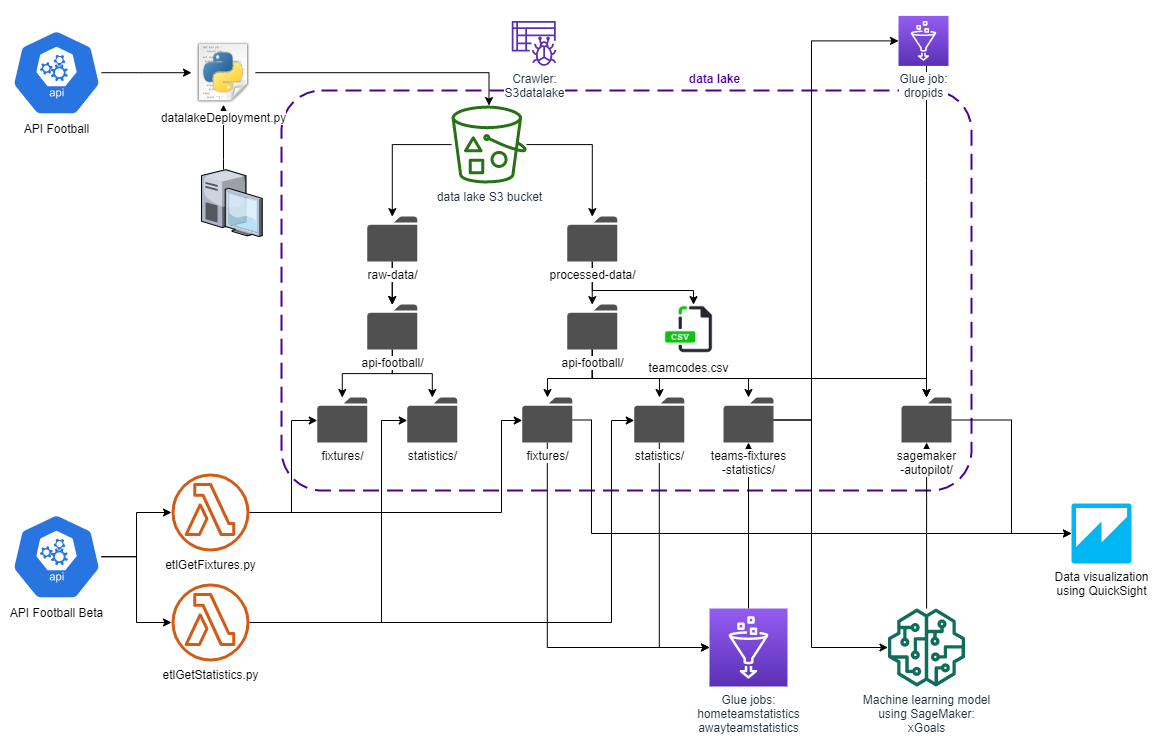
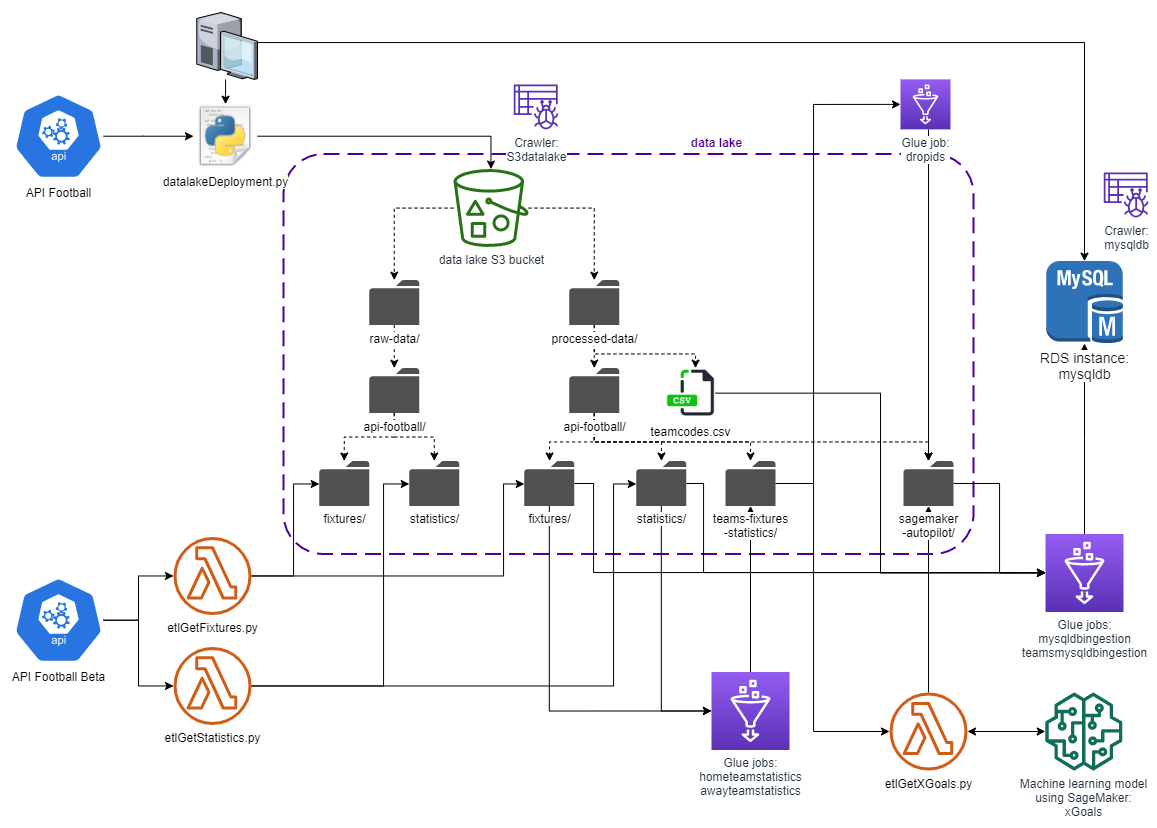
README

diff --git a/toDatabase.py b/toDatabase.py
@@ -1,0 +1,93 @@
+import sys
+from awsglue.transforms import *
+from awsglue.utils import getResolvedOptions
+from pyspark.context import SparkContext
+from awsglue.context import GlueContext
+from awsglue.job import Job
+from awsglue.dynamicframe import DynamicFrame
+
+## @params: [JOB_NAME]
+args = getResolvedOptions(sys.argv, ['JOB_NAME'])
+
+sc = SparkContext()
+glueContext = GlueContext(sc)
+spark = glueContext.spark_session
+job = Job(glueContext)
+job.init(args['JOB_NAME'], args)
+## @type: DataSource
+## @args: [database = "awsdataengineerprojectdatabase", table_name = "fixtures_51cfd6df2d3198a05b533fa18a848aa2", transformation_ctx = "DataSource0"]
+## @return: DataSource0
+## @inputs: []
+DataSource0 = glueContext.create_dynamic_frame.from_catalog(database = "awsdataengineerprojectdatabase", table_name = "fixtures_51cfd6df2d3198a05b533fa18a848aa2", transformation_ctx = "DataSource0")
+## @type: DataSource
+## @args: [database = "awsdataengineerprojectdatabase", table_name = "xgoals_predictions", transformation_ctx = "DataSource2"]
+## @return: DataSource2
+## @inputs: []
+DataSource2 = glueContext.create_dynamic_frame.from_catalog(database = "awsdataengineerprojectdatabase", table_name = "xgoals_predictions", transformation_ctx = "DataSource2")
+## @type: Join
+## @args: [keys2 = ["idfixture", "idawayteam"], keys1 = ["col0", "col1"], transformation_ctx = "Transform7"]
+## @return: Transform7
+## @inputs: [frame1 = DataSource2, frame2 = DataSource0]
+Transform7 = Join.apply(frame1 = DataSource2, frame2 = DataSource0, keys2 = ["idfixture", "idawayteam"], keys1 = ["col0", "col1"], transformation_ctx = "Transform7")
+## @type: ApplyMapping
+## @args: [mappings = [("col7", "double", "xgoalsawayteam", "double"), ("idfixture", "long", "idfixture", "long"), ("status", "string", "status", "string"), ("date", "string", "date", "string"), ("time", "string", "time", "string"), ("idhometeam", "long", "idhometeam", "long"), ("idawayteam", "long", "idawayteam", "long"), ("goalshometeam", "long", "goalshometeam", "long"), ("goalsawayteam", "long", "goalsawayteam", "long")], transformation_ctx = "Transform1"]
+## @return: Transform1
+## @inputs: [frame = Transform7]
+Transform1 = ApplyMapping.apply(frame = Transform7, mappings = [("col7", "double", "xgoalsawayteam", "double"), ("idfixture", "long", "idfixture", "long"), ("status", "string", "status", "string"), ("date", "string", "date", "string"), ("time", "string", "time", "string"), ("idhometeam", "long", "idhometeam", "long"), ("idawayteam", "long", "idawayteam", "long"), ("goalshometeam", "long", "goalshometeam", "long"), ("goalsawayteam", "long", "goalsawayteam", "long")], transformation_ctx = "Transform1")
+## @type: ApplyMapping
+## @args: [mappings = [("xgoalsawayteam", "double", "(right) xgoalsawayteam", "double"), ("idfixture", "long", "(right) idfixture", "long"), ("status", "string", "(right) status", "string"), ("date", "string", "(right) date", "string"), ("time", "string", "(right) time", "string"), ("idhometeam", "long", "(right) idhometeam", "long"), ("idawayteam", "long", "(right) idawayteam", "long"), ("goalshometeam", "long", "(right) goalshometeam", "long"), ("goalsawayteam", "long", "(right) goalsawayteam", "long")], transformation_ctx = "Transform2"]
+## @return: Transform2
+## @inputs: [frame = Transform1]
+Transform2 = ApplyMapping.apply(frame = Transform1, mappings = [("xgoalsawayteam", "double", "(right) xgoalsawayteam", "double"), ("idfixture", "long", "(right) idfixture", "long"), ("status", "string", "(right) status", "string"), ("date", "string", "(right) date", "string"), ("time", "string", "(right) time", "string"), ("idhometeam", "long", "(right) idhometeam", "long"), ("idawayteam", "long", "(right) idawayteam", "long"), ("goalshometeam", "long", "(right) goalshometeam", "long"), ("goalsawayteam", "long", "(right) goalsawayteam", "long")], transformation_ctx = "Transform2")
+## @type: Join
+## @args: [columnConditions = ["=", "="], joinType = left, keys2 = ["col0", "col1"], keys1 = ["idfixture", "idhometeam"], transformation_ctx = "Transform4"]
+## @return: Transform4
+## @inputs: [frame1 = DataSource0, frame2 = DataSource2]
+DataSource0DF = DataSource0.toDF()
+DataSource2DF = DataSource2.toDF()
+Transform4 = DynamicFrame.fromDF(DataSource0DF.join(DataSource2DF, (DataSource0DF['idfixture'] == DataSource2DF['col0']) & (DataSource0DF['idhometeam'] == DataSource2DF['col1']), "left"), glueContext, "Transform4")
+## @type: ApplyMapping
+## @args: [mappings = [("idfixture", "long", "idfixture", "long"), ("status", "string", "status", "string"), ("date", "string", "date", "string"), ("time", "string", "time", "string"), ("idhometeam", "long", "idhometeam", "long"), ("idawayteam", "long", "idawayteam", "long"), ("goalshometeam", "long", "goalshometeam", "long"), ("goalsawayteam", "long", "goalsawayteam", "long"), ("col7", "double", "xgoalshometeam", "double")], transformation_ctx = "Transform3"]
+## @return: Transform3
+## @inputs: [frame = Transform4]
+Transform3 = ApplyMapping.apply(frame = Transform4, mappings = [("idfixture", "long", "idfixture", "long"), ("status", "string", "status", "string"), ("date", "string", "date", "string"), ("time", "string", "time", "string"), ("idhometeam", "long", "idhometeam", "long"), ("idawayteam", "long", "idawayteam", "long"), ("goalshometeam", "long", "goalshometeam", "long"), ("goalsawayteam", "long", "goalsawayteam", "long"), ("col7", "double", "xgoalshometeam", "double")], transformation_ctx = "Transform3")
+## @type: Join
+## @args: [columnConditions = ["="], joinType = left, keys2 = ["(right) idfixture"], keys1 = ["idfixture"], transformation_ctx = "Transform8"]
+## @return: Transform8
+## @inputs: [frame1 = Transform3, frame2 = Transform2]
+Transform3DF = Transform3.toDF()
+Transform2DF = Transform2.toDF()
+Transform8 = DynamicFrame.fromDF(Transform3DF.join(Transform2DF, (Transform3DF['idfixture'] == Transform2DF['(right) idfixture']), "left"), glueContext, "Transform8")
+## @type: ApplyMapping
+## @args: [mappings = [("idfixture", "long", "idfixture", "long"), ("status", "string", "status", "string"), ("date", "string", "date", "string"), ("time", "string", "time", "string"), ("idhometeam", "long", "idhometeam", "long"), ("idawayteam", "long", "idawayteam", "long"), ("goalshometeam", "long", "goalshometeam", "long"), ("goalsawayteam", "long", "goalsawayteam", "long"), ("xgoalshometeam", "double", "xgoalshometeam", "double"), ("(right) xgoalsawayteam", "double", "xgoalsawayteam", "double")], transformation_ctx = "Transform5"]
+## @return: Transform5
+## @inputs: [frame = Transform8]
+Transform5 = ApplyMapping.apply(frame = Transform8, mappings = [("idfixture", "long", "idfixture", "long"), ("status", "string", "status", "string"), ("date", "string", "date", "string"), ("time", "string", "time", "string"), ("idhometeam", "long", "idhometeam", "long"), ("idawayteam", "long", "idawayteam", "long"), ("goalshometeam", "long", "goalshometeam", "long"), ("goalsawayteam", "long", "goalsawayteam", "long"), ("xgoalshometeam", "double", "xgoalshometeam", "double"), ("(right) xgoalsawayteam", "double", "xgoalsawayteam", "double")], transformation_ctx = "Transform5")
+## @type: DataSource
+## @args: [database = "awsdataengineerprojectdatabase", table_name = "statistics_75b50a9db7fa0056aa744367aa10eb9e", transformation_ctx = "DataSource1"]
+## @return: DataSource1
+## @inputs: []
+DataSource1 = glueContext.create_dynamic_frame.from_catalog(database = "awsdataengineerprojectdatabase", table_name = "statistics_75b50a9db7fa0056aa744367aa10eb9e", transformation_ctx = "DataSource1")
+## @type: ApplyMapping
+## @args: [mappings = [("idfixture", "long", "(right) idfixture", "long"), ("idhometeam", "long", "(right) idhometeam", "long"), ("idawayteam", "long", "(right) idawayteam", "long"), ("shotsongoalhometeam", "long", "(right) shotsongoalhometeam", "long"), ("shotsongoalawayteam", "long", "(right) shotsongoalawayteam", "long"), ("shotsinsideboxhometeam", "long", "(right) shotsinsideboxhometeam", "long"), ("shotsinsideboxawayteam", "long", "(right) shotsinsideboxawayteam", "long"), ("totalshotshometeam", "long", "(right) totalshotshometeam", "long"), ("totalshotsawayteam", "long", "(right) totalshotsawayteam", "long"), ("ballpossessionhometeam", "string", "(right) ballpossessionhometeam", "string"), ("ballpossessionawayteam", "string", "(right) ballpossessionawayteam", "string")], transformation_ctx = "Transform9"]
+## @return: Transform9
+## @inputs: [frame = DataSource1]
+Transform9 = ApplyMapping.apply(frame = DataSource1, mappings = [("idfixture", "long", "(right) idfixture", "long"), ("idhometeam", "long", "(right) idhometeam", "long"), ("idawayteam", "long", "(right) idawayteam", "long"), ("shotsongoalhometeam", "long", "(right) shotsongoalhometeam", "long"), ("shotsongoalawayteam", "long", "(right) shotsongoalawayteam", "long"), ("shotsinsideboxhometeam", "long", "(right) shotsinsideboxhometeam", "long"), ("shotsinsideboxawayteam", "long", "(right) shotsinsideboxawayteam", "long"), ("totalshotshometeam", "long", "(right) totalshotshometeam", "long"), ("totalshotsawayteam", "long", "(right) totalshotsawayteam", "long"), ("ballpossessionhometeam", "string", "(right) ballpossessionhometeam", "string"), ("ballpossessionawayteam", "string", "(right) ballpossessionawayteam", "string")], transformation_ctx = "Transform9")
+## @type: Join
+## @args: [columnConditions = ["="], joinType = left, keys2 = ["(right) idfixture"], keys1 = ["idfixture"], transformation_ctx = "Transform0"]
+## @return: Transform0
+## @inputs: [frame1 = Transform5, frame2 = Transform9]
+Transform5DF = Transform5.toDF()
+Transform9DF = Transform9.toDF()
+Transform0 = DynamicFrame.fromDF(Transform5DF.join(Transform9DF, (Transform5DF['idfixture'] == Transform9DF['(right) idfixture']), "left"), glueContext, "Transform0")
+## @type: ApplyMapping
+## @args: [mappings = [("idfixture", "long", "idfixture", "long"), ("status", "string", "status", "string"), ("date", "string", "date", "string"), ("time", "string", "time", "string"), ("idhometeam", "long", "idhometeam", "long"), ("idawayteam", "long", "idawayteam", "long"), ("goalshometeam", "long", "goalshometeam", "long"), ("goalsawayteam", "long", "goalsawayteam", "long"), ("xgoalshometeam", "double", "xgoalshometeam", "double"), ("xgoalsawayteam", "double", "xgoalsawayteam", "double"), ("(right) shotsongoalhometeam", "long", "shotsongoalhometeam", "long"), ("(right) shotsongoalawayteam", "long", "shotsongoalawayteam", "long"), ("(right) shotsinsideboxhometeam", "long", "shotsinsideboxhometeam", "long"), ("(right) shotsinsideboxawayteam", "long", "shotsinsideboxawayteam", "long"), ("(right) totalshotshometeam", "long", "totalshotshometeam", "long"), ("(right) totalshotsawayteam", "long", "totalshotsawayteam", "long"), ("(right) ballpossessionhometeam", "string", "ballpossessionhometeam", "string"), ("(right) ballpossessionawayteam", "string", "ballpossessionawayteam", "string")], transformation_ctx = "Transform6"]
+## @return: Transform6
+## @inputs: [frame = Transform0]
+Transform6 = ApplyMapping.apply(frame = Transform0, mappings = [("idfixture", "long", "idfixture", "long"), ("status", "string", "status", "string"), ("date", "string", "date", "string"), ("time", "string", "time", "string"), ("idhometeam", "long", "idhometeam", "long"), ("idawayteam", "long", "idawayteam", "long"), ("goalshometeam", "long", "goalshometeam", "long"), ("goalsawayteam", "long", "goalsawayteam", "long"), ("xgoalshometeam", "double", "xgoalshometeam", "double"), ("xgoalsawayteam", "double", "xgoalsawayteam", "double"), ("(right) shotsongoalhometeam", "long", "shotsongoalhometeam", "long"), ("(right) shotsongoalawayteam", "long", "shotsongoalawayteam", "long"), ("(right) shotsinsideboxhometeam", "long", "shotsinsideboxhometeam", "long"), ("(right) shotsinsideboxawayteam", "long", "shotsinsideboxawayteam", "long"), ("(right) totalshotshometeam", "long", "totalshotshometeam", "long"), ("(right) totalshotsawayteam", "long", "totalshotsawayteam", "long"), ("(right) ballpossessionhometeam", "string", "ballpossessionhometeam", "string"), ("(right) ballpossessionawayteam", "string", "ballpossessionawayteam", "string")], transformation_ctx = "Transform6")
+## @type: DataSink
+## @args: [connection_type = "s3", format = "csv", connection_options = {"path": "s3://datalake-57e3d8aa-01ab-432f-8b25-78d63bb86886/processed-data/api-football/", "partitionKeys": []}, transformation_ctx = "DataSink0"]
+## @return: DataSink0
+## @inputs: [frame = Transform6]
+DataSink0 = glueContext.write_dynamic_frame.from_options(frame = Transform6, connection_type = "s3", format = "csv", connection_options = {"path": "s3://datalake-57e3d8aa-01ab-432f-8b25-78d63bb86886/processed-data/api-football/", "partitionKeys": []}, transformation_ctx = "DataSink0")
+job.commit()

diff --git a/mysqldbingestion.py b/mysqldbingestion.py
@@ -1,0 +1,92 @@
+import sys
+from awsglue.transforms import *
+from awsglue.utils import getResolvedOptions
+from pyspark.context import SparkContext
+from awsglue.context import GlueContext
+from awsglue.job import Job
+import re
+from awsglue.dynamicframe import DynamicFrame
+
+## @params: [JOB_NAME]
+args = getResolvedOptions(sys.argv, ['JOB_NAME'])
+
+sc = SparkContext()
+glueContext = GlueContext(sc)
+spark = glueContext.spark_session
+job = Job(glueContext)
+job.init(args['JOB_NAME'], args)
+## @type: DataSource
+## @args: [database = "awsdataengineerprojectdatabase", table_name = "xgoals_predictions", transformation_ctx = "DataSource0"]
+## @return: DataSource0
+## @inputs: []
+DataSource0 = glueContext.create_dynamic_frame.from_catalog(database = "awsdataengineerprojectdatabase", table_name = "xgoals_predictions", transformation_ctx = "DataSource0")
+## @type: ApplyMapping
+## @args: [mappings = [("col0", "string", "idfixture", "int"), ("col1", "string", "idteam", "int"), ("col2", "double", "xgoals", "decimal")], transformation_ctx = "Transform1"]
+## @return: Transform1
+## @inputs: [frame = DataSource0]
+Transform1 = ApplyMapping.apply(frame = DataSource0, mappings = [("col0", "string", "idfixture", "int"), ("col1", "string", "idteam", "int"), ("col2", "double", "xgoals", "decimal")], transformation_ctx = "Transform1")
+## @type: ApplyMapping
+## @args: [mappings = [("idfixture", "int", "(predictions) idfixture", "int"), ("idteam", "int", "(predictions) idteam", "int"), ("xgoals", "decimal", "(predictions) xgoals", "decimal")], transformation_ctx = "Transform2"]
+## @return: Transform2
+## @inputs: [frame = Transform1]
+Transform2 = ApplyMapping.apply(frame = Transform1, mappings = [("idfixture", "int", "(predictions) idfixture", "int"), ("idteam", "int", "(predictions) idteam", "int"), ("xgoals", "decimal", "(predictions) xgoals", "decimal")], transformation_ctx = "Transform2")
+## @type: DataSource
+## @args: [database = "awsdataengineerprojectdatabase", table_name = "statistics_75b50a9db7fa0056aa744367aa10eb9e", transformation_ctx = "DataSource2"]
+## @return: DataSource2
+## @inputs: []
+DataSource2 = glueContext.create_dynamic_frame.from_catalog(database = "awsdataengineerprojectdatabase", table_name = "statistics_75b50a9db7fa0056aa744367aa10eb9e", transformation_ctx = "DataSource2")
+## @type: ApplyMapping
+## @args: [mappings = [("idfixture", "long", "(stats) idfixture", "int"), ("shotsongoalhometeam", "long", "shotsongoalhometeam", "int"), ("shotsongoalawayteam", "long", "shotsongoalawayteam", "int"), ("shotsinsideboxhometeam", "long", "shotsinsideboxhometeam", "int"), ("shotsinsideboxawayteam", "long", "shotsinsideboxawayteam", "int"), ("totalshotshometeam", "long", "totalshotshometeam", "int"), ("totalshotsawayteam", "long", "totalshotsawayteam", "int"), ("ballpossessionhometeam", "string", "ballpossessionhometeam", "string"), ("ballpossessionawayteam", "string", "ballpossessionawayteam", "string")], transformation_ctx = "Transform4"]
+## @return: Transform4
+## @inputs: [frame = DataSource2]
+Transform4 = ApplyMapping.apply(frame = DataSource2, mappings = [("idfixture", "long", "(stats) idfixture", "int"), ("shotsongoalhometeam", "long", "shotsongoalhometeam", "int"), ("shotsongoalawayteam", "long", "shotsongoalawayteam", "int"), ("shotsinsideboxhometeam", "long", "shotsinsideboxhometeam", "int"), ("shotsinsideboxawayteam", "long", "shotsinsideboxawayteam", "int"), ("totalshotshometeam", "long", "totalshotshometeam", "int"), ("totalshotsawayteam", "long", "totalshotsawayteam", "int"), ("ballpossessionhometeam", "string", "ballpossessionhometeam", "string"), ("ballpossessionawayteam", "string", "ballpossessionawayteam", "string")], transformation_ctx = "Transform4")
+## @type: DataSource
+## @args: [database = "awsdataengineerprojectdatabase", table_name = "fixtures_51cfd6df2d3198a05b533fa18a848aa2", transformation_ctx = "DataSource1"]
+## @return: DataSource1
+## @inputs: []
+DataSource1 = glueContext.create_dynamic_frame.from_catalog(database = "awsdataengineerprojectdatabase", table_name = "fixtures_51cfd6df2d3198a05b533fa18a848aa2", transformation_ctx = "DataSource1")
+## @type: Join
+## @args: [keys2 = ["idfixture"], keys1 = ["(stats) idfixture"], transformation_ctx = "Transform8"]
+## @return: Transform8
+## @inputs: [frame1 = Transform4, frame2 = DataSource1]
+Transform8 = Join.apply(frame1 = Transform4, frame2 = DataSource1, keys2 = ["idfixture"], keys1 = ["(stats) idfixture"], transformation_ctx = "Transform8")
+## @type: Filter
+## @args: [f = lambda row : (bool(re.match("Match Finished", row["status"]))), transformation_ctx = "Transform3"]
+## @return: Transform3
+## @inputs: [frame = Transform8]
+Transform3 = Filter.apply(frame = Transform8, f = lambda row : (bool(re.match("Match Finished", row["status"]))), transformation_ctx = "Transform3")
+## @type: ApplyMapping
+## @args: [mappings = [("shotsongoalhometeam", "int", "shotsongoalhometeam", "int"), ("shotsongoalawayteam", "int", "shotsongoalawayteam", "int"), ("shotsinsideboxhometeam", "int", "shotsinsideboxhometeam", "int"), ("shotsinsideboxawayteam", "int", "shotsinsideboxawayteam", "int"), ("totalshotshometeam", "int", "totalshotshometeam", "int"), ("totalshotsawayteam", "int", "totalshotsawayteam", "int"), ("ballpossessionhometeam", "string", "ballpossessionhometeam", "string"), ("ballpossessionawayteam", "string", "ballpossessionawayteam", "string"), ("idfixture", "long", "idfixture", "int"), ("date", "string", "date", "string"), ("time", "string", "time", "string"), ("idhometeam", "long", "idhometeam", "int"), ("idawayteam", "long", "idawayteam", "int"), ("goalshometeam", "long", "goalshometeam", "int"), ("goalsawayteam", "long", "goalsawayteam", "int")], transformation_ctx = "Transform7"]
+## @return: Transform7
+## @inputs: [frame = Transform3]
+Transform7 = ApplyMapping.apply(frame = Transform3, mappings = [("shotsongoalhometeam", "int", "shotsongoalhometeam", "int"), ("shotsongoalawayteam", "int", "shotsongoalawayteam", "int"), ("shotsinsideboxhometeam", "int", "shotsinsideboxhometeam", "int"), ("shotsinsideboxawayteam", "int", "shotsinsideboxawayteam", "int"), ("totalshotshometeam", "int", "totalshotshometeam", "int"), ("totalshotsawayteam", "int", "totalshotsawayteam", "int"), ("ballpossessionhometeam", "string", "ballpossessionhometeam", "string"), ("ballpossessionawayteam", "string", "ballpossessionawayteam", "string"), ("idfixture", "long", "idfixture", "int"), ("date", "string", "date", "string"), ("time", "string", "time", "string"), ("idhometeam", "long", "idhometeam", "int"), ("idawayteam", "long", "idawayteam", "int"), ("goalshometeam", "long", "goalshometeam", "int"), ("goalsawayteam", "long", "goalsawayteam", "int")], transformation_ctx = "Transform7")
+## @type: Join
+## @args: [columnConditions = ["=", "="], joinType = right, keys2 = ["idfixture", "idhometeam"], keys1 = ["(predictions) idfixture", "(predictions) idteam"], transformation_ctx = "Transform5"]
+## @return: Transform5
+## @inputs: [frame1 = Transform2, frame2 = Transform7]
+Transform2DF = Transform2.toDF()
+Transform7DF = Transform7.toDF()
+Transform5 = DynamicFrame.fromDF(Transform2DF.join(Transform7DF, (Transform2DF['(predictions) idfixture'] == Transform7DF['idfixture']) & (Transform2DF['(predictions) idteam'] == Transform7DF['idhometeam']), "right"), glueContext, "Transform5")
+## @type: ApplyMapping
+## @args: [mappings = [("(predictions) xgoals", "decimal", "xgoalshometeam", "decimal"), ("shotsongoalhometeam", "int", "shotsongoalhometeam", "int"), ("shotsongoalawayteam", "int", "shotsongoalawayteam", "int"), ("shotsinsideboxhometeam", "int", "shotsinsideboxhometeam", "int"), ("shotsinsideboxawayteam", "int", "shotsinsideboxawayteam", "int"), ("totalshotshometeam", "int", "totalshotshometeam", "int"), ("totalshotsawayteam", "int", "totalshotsawayteam", "int"), ("ballpossessionhometeam", "string", "ballpossessionhometeam", "string"), ("ballpossessionawayteam", "string", "ballpossessionawayteam", "string"), ("idfixture", "int", "idfixture", "int"), ("date", "string", "date", "string"), ("time", "string", "time", "string"), ("idhometeam", "int", "idhometeam", "int"), ("idawayteam", "int", "idawayteam", "int"), ("goalshometeam", "int", "goalshometeam", "int"), ("goalsawayteam", "int", "goalsawayteam", "int")], transformation_ctx = "Transform6"]
+## @return: Transform6
+## @inputs: [frame = Transform5]
+Transform6 = ApplyMapping.apply(frame = Transform5, mappings = [("(predictions) xgoals", "decimal", "xgoalshometeam", "decimal"), ("shotsongoalhometeam", "int", "shotsongoalhometeam", "int"), ("shotsongoalawayteam", "int", "shotsongoalawayteam", "int"), ("shotsinsideboxhometeam", "int", "shotsinsideboxhometeam", "int"), ("shotsinsideboxawayteam", "int", "shotsinsideboxawayteam", "int"), ("totalshotshometeam", "int", "totalshotshometeam", "int"), ("totalshotsawayteam", "int", "totalshotsawayteam", "int"), ("ballpossessionhometeam", "string", "ballpossessionhometeam", "string"), ("ballpossessionawayteam", "string", "ballpossessionawayteam", "string"), ("idfixture", "int", "idfixture", "int"), ("date", "string", "date", "string"), ("time", "string", "time", "string"), ("idhometeam", "int", "idhometeam", "int"), ("idawayteam", "int", "idawayteam", "int"), ("goalshometeam", "int", "goalshometeam", "int"), ("goalsawayteam", "int", "goalsawayteam", "int")], transformation_ctx = "Transform6")
+## @type: Join
+## @args: [columnConditions = ["=", "="], joinType = right, keys2 = ["(predictions) idfixture", "(predictions) idteam"], keys1 = ["idfixture", "idawayteam"], transformation_ctx = "Transform9"]
+## @return: Transform9
+## @inputs: [frame1 = Transform6, frame2 = Transform2]
+Transform6DF = Transform6.toDF()
+Transform2DF = Transform2.toDF()
+Transform9 = DynamicFrame.fromDF(Transform6DF.join(Transform2DF, (Transform6DF['idfixture'] == Transform2DF['(predictions) idfixture']) & (Transform6DF['idawayteam'] == Transform2DF['(predictions) idteam']), "right"), glueContext, "Transform9")
+## @type: ApplyMapping
+## @args: [mappings = [("date", "string", "date", "string"), ("(predictions) xgoals", "decimal", "xgoalsawayteam", "decimal"), ("shotsinsideboxhometeam", "int", "shotsinsideboxhometeam", "int"), ("totalshotsawayteam", "int", "totalshotsawayteam", "int"), ("totalshotshometeam", "int", "totalshotshometeam", "int"), ("xgoalshometeam", "decimal", "xgoalshometeam", "decimal"), ("idfixture", "int", "idfixture", "int"), ("goalshometeam", "int", "goalshometeam", "int"), ("idawayteam", "int", "idawayteam", "int"), ("goalsawayteam", "int", "goalsawayteam", "int"), ("ballpossessionhometeam", "string", "ballpossessionhometeam", "string"), ("idhometeam", "int", "idhometeam", "int"), ("shotsongoalhometeam", "int", "shotsongoalhometeam", "int"), ("shotsinsideboxawayteam", "int", "shotsinsideboxawayteam", "int"), ("time", "string", "time", "string"), ("shotsongoalawayteam", "int", "shotsongoalawayteam", "int"), ("ballpossessionawayteam", "string", "ballpossessionawayteam", "string")], transformation_ctx = "Transform0"]
+## @return: Transform0
+## @inputs: [frame = Transform9]
+Transform0 = ApplyMapping.apply(frame = Transform9, mappings = [("date", "string", "date", "string"), ("(predictions) xgoals", "decimal", "xgoalsawayteam", "decimal"), ("shotsinsideboxhometeam", "int", "shotsinsideboxhometeam", "int"), ("totalshotsawayteam", "int", "totalshotsawayteam", "int"), ("totalshotshometeam", "int", "totalshotshometeam", "int"), ("xgoalshometeam", "decimal", "xgoalshometeam", "decimal"), ("idfixture", "int", "idfixture", "int"), ("goalshometeam", "int", "goalshometeam", "int"), ("idawayteam", "int", "idawayteam", "int"), ("goalsawayteam", "int", "goalsawayteam", "int"), ("ballpossessionhometeam", "string", "ballpossessionhometeam", "string"), ("idhometeam", "int", "idhometeam", "int"), ("shotsongoalhometeam", "int", "shotsongoalhometeam", "int"), ("shotsinsideboxawayteam", "int", "shotsinsideboxawayteam", "int"), ("time", "string", "time", "string"), ("shotsongoalawayteam", "int", "shotsongoalawayteam", "int"), ("ballpossessionawayteam", "string", "ballpossessionawayteam", "string")], transformation_ctx = "Transform0")
+## @type: DataSink
+## @args: [database = "awsdataengineerprojectdatabase", table_name = "mysqldb_fixtures", transformation_ctx = "DataSink0"]
+## @return: DataSink0
+## @inputs: [frame = Transform0]
+DataSink0 = glueContext.write_dynamic_frame.from_catalog(frame = Transform0, database = "awsdataengineerprojectdatabase", table_name = "mysqldb_fixtures", transformation_ctx = "DataSink0")
+job.commit()

diff --git a/etlGetXGoals.py b/etlGetXGoals.py
@@ -1,0 +1,54 @@
+import boto3
+import urllib.parse
+import uuid
+
+s3_client = boto3.client('sagemaker')
+
+
+def lambda_handler(event, context):
+
+    dataLakeBucketName = event['Records'][0]['s3']['bucket']['name']
+    key = urllib.parse.unquote_plus(event['Records'][0]['s3']['object']['key'], encoding='utf-8')
+    uri = 's3://{}/{}'.format(dataLakeBucketName, key)
+    transformJobName = 'xGoals-' + str(uuid.uuid4())
+    S3OutputPath = 's3://{}/processed-data/api-football/sagemaker-autopilot/xGoals-predictions/'.format(dataLakeBucketName)
+    modelName = 'XXX'  # Replace 'XXX' by your model name
+
+    # xGoals batch transform job
+    s3_client.create_transform_job(
+        TransformJobName=transformJobName,
+        ModelName=modelName,
+        ModelClientConfig={
+            'InvocationsTimeoutInSeconds': 200,
+            'InvocationsMaxRetries': 1
+        },
+        MaxPayloadInMB=6,
+        BatchStrategy='MultiRecord',
+        TransformInput={
+            'DataSource': {
+                'S3DataSource': {
+                    'S3DataType': 'S3Prefix',
+                    'S3Uri': uri
+                }
+            },
+            'ContentType': 'text/csv',
+            'CompressionType': 'None',
+            'SplitType': 'Line'
+        },
+        TransformOutput={
+            'S3OutputPath': S3OutputPath,
+            'Accept': 'text/csv',
+            'AssembleWith': 'Line',
+        },
+        TransformResources={
+            'InstanceType': 'ml.m5.large',
+            'InstanceCount': 1,
+        },
+        DataProcessing={
+            'InputFilter': "$[3:]",
+            'OutputFilter': "$[0,1,-1]",
+            'JoinSource': 'Input'
+        },
+    )
+
+    print('Job', transformJobName, 'performed successfully!')
